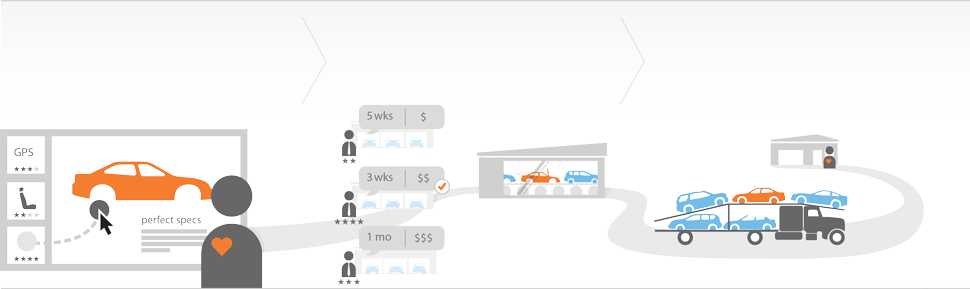
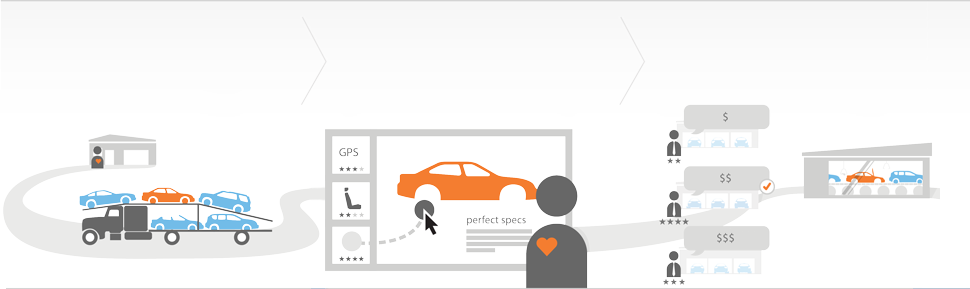
New image, new tagline.

diff --git a/index.html b/index.html
@@ -58,7 +58,7 @@
 		</header>
 		<div id="header_form" class="">
 			<h1 class="replace">
-				test drive at home
+				test on your own turf
 				<span></span>
 			</h1>
 			<form action="/search" method="get">
@@ -165,14 +165,26 @@
 				</fieldset>
 			</form>
 		</div>
-		<div>
-			<div class="column">
-				<h2>test on your own turf</h2>
-				<p>Pick a car, schedule a drive, we deliver it where and when you want for free.</p>
-
-				<p>New car shopping just got fun.</p>
+		<p class="tagline">Pick your cars, we deliver them where and when you want for free. New car shopping just got fun.</p>
+		<article class="boxes">
+			<h1>
+				<!--Build &amp; buy new car online-->
+			</h1>
+			<ul>
+				<li>
+					<h2>1. Test</h2>
+				</li>
+				<li class="second">
+					<h2>2. Refine</h2>
+				</li>
+				<li class="last">
+					<h2>3. Engage</h2>
+				</li>
+			</ul>
+			<div class="bg">
+				<img src="media/images/picSteps2.png" alt="" />
 			</div>
-		</div>
+		</article>
 	</div>
 	<footer>
 		<div class="proper">

diff --git a/media/css/layout.css b/media/css/layout.css
@@ -1,14 +1,8 @@
-.column {
-	text-align: center;
-	width:100%;
-	margin:10px;
-	padding:0;
-}
-.column h2 {
-	font-size:24px;
-}
-.column p {
+p.tagline {
 	font-size:18px;
+	text-align:center;
+	padding-top:40px;
+	font-weight:bold;
 }
 @font-face {
 	font-family: 'FuturaMedium';
@@ -206,7 +200,7 @@ body > footer .proper > ul > li + li {
 	position:relative;
 	top:-20px;
 	font-weight:bold;
-	font-size:86px;
+	font-size:64px;
 	text-shadow:0px 2px 2px rgba(255, 255, 255, 1);
 }
 h1 img{
